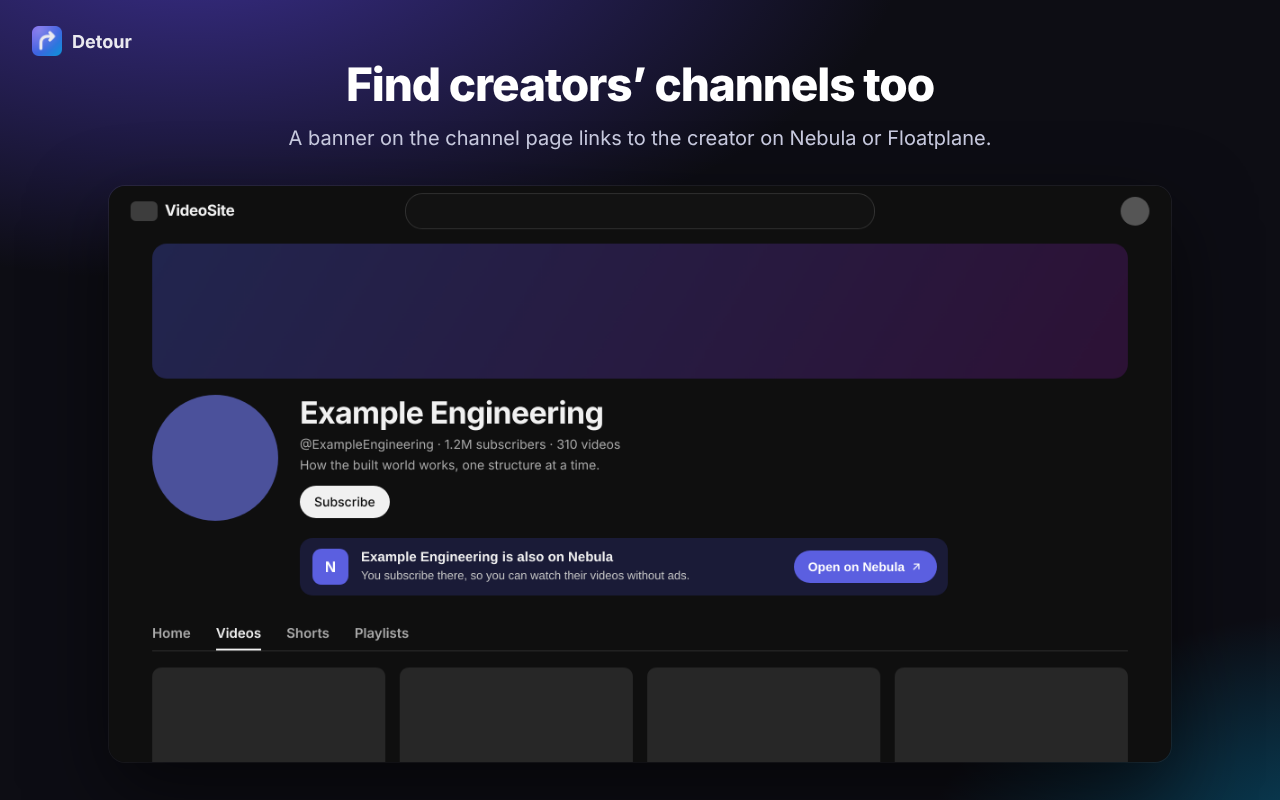
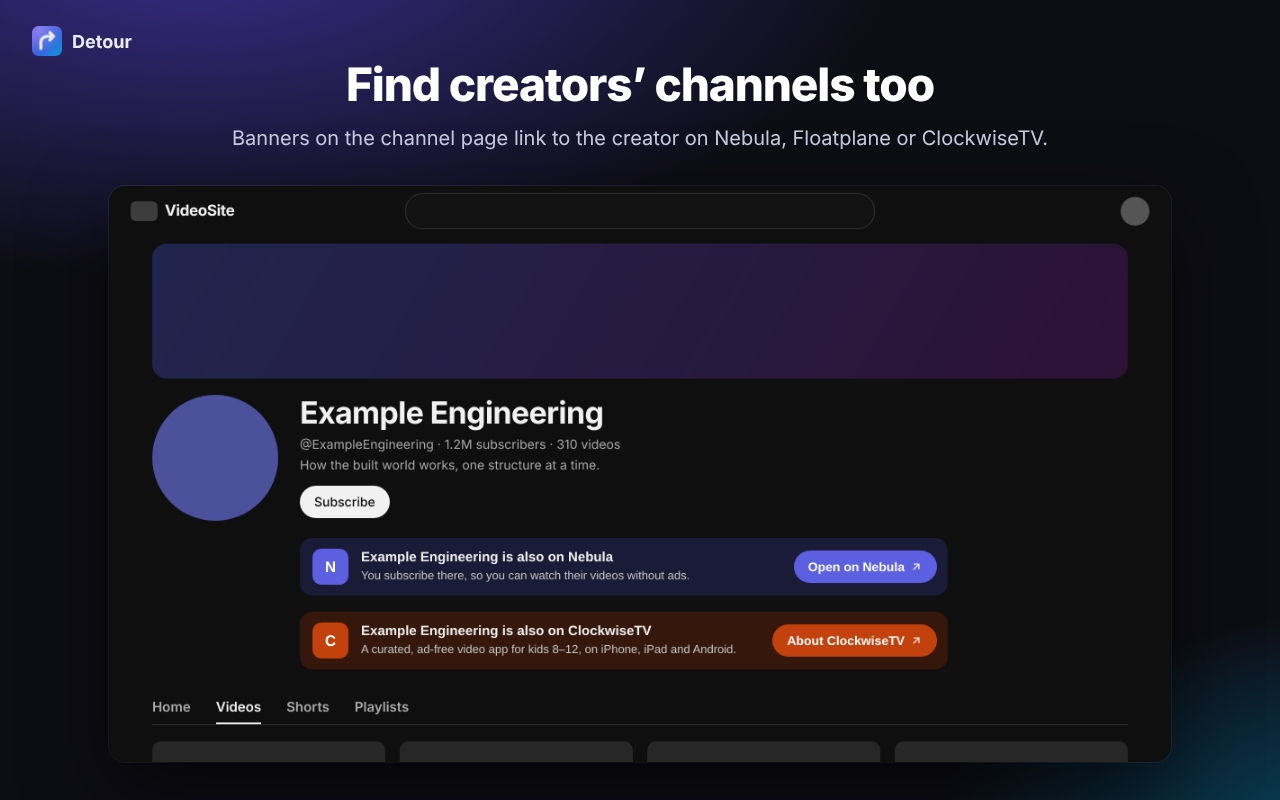
Regenerate store screenshots for 0.7.0
The channel-page screenshot now shows the ClockwiseTV banner under the Nebula
one, and the settings screenshot shows v0.7.0. The mock site serves Example
Labs' Floatplane match from Detour's list, as 0.6.0 no longer contacts
Floatplane; without that, the Floatplane screenshot showed a channel link
instead of "Watch on Floatplane". Captions and alt text mention ClockwiseTV.

Claude-Session: https://claude.ai/code/session_01DQcXPvvkBUCLAG9WcNuEpb

diff --git a/store/assets/mock-site.js b/store/assets/mock-site.js
@@ -100,19 +100,18 @@ async function installMockSite(ctx) {
     // Detour's own list (known.json): made-up creators, so the settings popup has a full list.
     if (u.includes('github.io/detour/data/known.json')) return json(route, {
       version: 3, videos: {},
-      channels: { [NEB_ID]: { name: 'Example Engineering', nebula: 'exampleengineering' }, [FP_ID]: { name: 'Example Labs', floatplane: 'exlabs' } },
+      channels: { [NEB_ID]: { name: 'Example Engineering', nebula: 'exampleengineering', clockwise: true }, [FP_ID]: { name: 'Example Labs', floatplane: 'exlabs' } },
       nebula: { creators: { exampleengineering: { name: 'Example Engineering', catalog: false } } },
       floatplane: { creators: Object.fromEntries([['exlabs', 'Example Labs'], ['benchnotes', 'Bench Notes'], ['circuitcorner', 'Circuit Corner'],
         ['garagebuilds', 'Garage Builds'], ['retrorigs', 'Retro Rigs'], ['sounddesk', 'Sound Desk'], ['trailmix', 'Trail Mix'], ['workshopweekly', 'Workshop Weekly']]
-        .map(([id, name]) => [id, { name, urlname: id, channels: {}, catalog: false }])) },
+        .map(([id, name]) => [id, { name, urlname: id, channels: {}, catalog: id === 'exlabs' }])) },
     });
     if (u.includes('/content/exampleengineering/')) return json(route, { id: 'c1' });
     if (u.includes('video_channels/c1/video_episodes')) return json(route, { results: [
       { title: 'Why Bridges Don’t Collapse (Most of the Time)', published_at: '2026-11-04', share_url: 'https://nebula.tv/videos/exampleengineering-bridges' },
       { title: 'The Hidden Engineering of Tunnels', published_at: '2026-10-20', share_url: 'https://nebula.tv/videos/exampleengineering-tunnels' }] });
-    if (u.includes('floatplane.com/api/v3/creator/list')) return json(route, [
-      { id: 'exlabs', title: 'Example Labs', urlname: 'examplelabs', socialLinks: { youtube: `https://www.youtube.com/channel/${FP_ID}` }, channels: [] }]);
-    if (u.includes('floatplane.com/api/v3/content/creator')) return json(route, [{ id: 'p1', title: 'I Built the Quietest PC Possible', releaseDate: '2026-11-03' }]);
+    // Example Labs' Floatplane catalogue from Detour's list (Detour never contacts Floatplane).
+    if (u.includes('github.io/detour/data/floatplane/exlabs.json')) return json(route, [{ i: 'p1', t: 'I Built the Quietest PC Possible', d: '2026-11-03' }]);
     if (u.includes('nebula.tv/videos/')) return html(route, '<body style="background:#0d0d14"></body>');
     return route.fulfill({ status: 404, body: '' });
   });

diff --git a/store/assets/make-store-images.js b/store/assets/make-store-images.js
@@ -68,10 +68,10 @@ p{margin:-22px 0 0;font-size:20px;color:#c9cbe0;text-align:center}
   await page.waitForSelector('.detour-toast');
   await shoot(page, 'redirect');
 
-  // 3. Channel page banner
+  // 3. Channel page banners (Nebula, then ClockwiseTV)
   await settings({ autoRedirect: false });
   await page.goto('https://www.youtube.com/@ExampleEngineering');
-  await page.waitForSelector('.detour-banner');
+  await page.waitForSelector('.detour-banner.detour-clockwise');
   await page.waitForTimeout(400);
   await shoot(page, 'channel');
 
@@ -105,7 +105,7 @@ p{margin:-22px 0 0;font-size:20px;color:#c9cbe0;text-align:center}
   const items = [
     ['1-video', { headline: 'Watch it where you already subscribe', sub: 'A “Watch on Nebula” button appears right next to the video title.', shot: shots.video, ...full }],
     ['2-redirect', { headline: 'Or go there automatically', sub: 'Subscribers can be redirected, with a countdown and a “Stay on YouTube” option.', shot: shots.redirect, ...full }],
-    ['3-channel', { headline: 'Find creators’ channels too', sub: 'A banner on the channel page links to the creator on Nebula or Floatplane.', shot: shots.channel, ...full }],
+    ['3-channel', { headline: 'Find creators’ channels too', sub: 'Banners on the channel page link to the creator on Nebula, Floatplane or ClockwiseTV.', shot: shots.channel, ...full }],
     ['4-floatplane', { headline: 'Nebula and Floatplane', sub: 'Works with both, in YouTube’s light and dark themes.', shot: shots.floatplane, ...full }],
     ['5-settings', { headline: 'You decide how it works', sub: 'Select your subscriptions, then choose redirects or just a button.', shot: shots.settings, ...popupSize, popup: true }],
   ];

diff --git a/index.html b/index.html
@@ -41,7 +41,7 @@ title: Detour
       <h2>Channel pages</h2>
       <p>A banner under the Subscribe button links to the creator’s Nebula or Floatplane channel.</p>
     </div>
-    <img class="shot" src="{{ '/store/assets/ui-channel.png' | relative_url }}" alt="A channel page with a banner saying the creator is also on Nebula" width="2360" height="1280" loading="lazy">
+    <img class="shot" src="{{ '/store/assets/ui-channel.png' | relative_url }}" alt="A channel page with banners saying the creator is also on Nebula and on ClockwiseTV" width="2360" height="1280" loading="lazy">
   </div>
   <div class="feature flip">
     <div class="feature-text">

diff --git a/store/firefox-addons.md b/store/firefox-addons.md
@@ -153,7 +153,7 @@ data_collection_permissions declares browsingActivity and websiteContent (requir
 These are the same five screenshots as for Chrome. Suggested captions, which AMO shows under each one:
 1. "Watch on Nebula" appears right next to the video title.
 2. Subscribers can be redirected automatically, with a countdown.
-3. Channel pages link to the creator on Nebula or Floatplane.
+3. Channel pages link to the creator on Nebula, Floatplane or ClockwiseTV.
 4. Works with Nebula and Floatplane, in light and dark themes.
 5. Select your subscriptions and choose redirects or just a button.
 

diff --git a/store/chrome-web-store.md b/store/chrome-web-store.md
@@ -74,7 +74,7 @@ English
 Upload the screenshots in this order:
 1. **Watch it where you already subscribe:** the "Watch on Nebula" chip next to the video title.
 2. **Or go there automatically:** the redirect countdown.
-3. **Find creators' channels too:** the channel-page banner.
+3. **Find creators' channels too:** the channel-page banners (Nebula, then ClockwiseTV).
 4. **Nebula and Floatplane:** the Floatplane chip, in light theme.
 5. **You decide how it works:** the settings popup.
 
